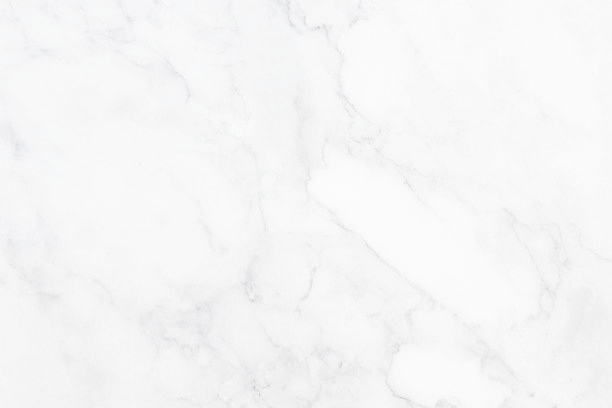
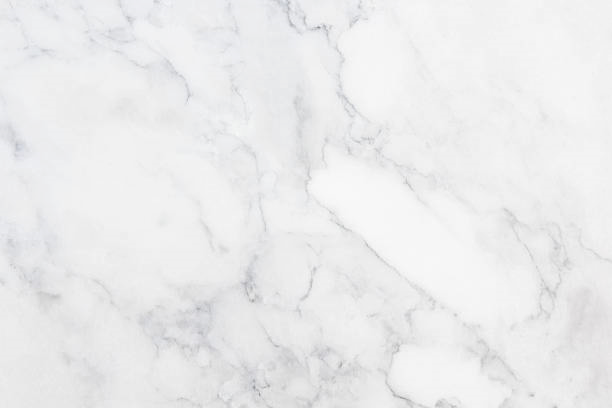
Updated stylings on page.

diff --git a/index.css b/index.css
@@ -7,7 +7,7 @@ body {
   line-height: 1.42857143;
   color: #333;
   background-color: #fff;
-  --marble-color: #fffcf0;
+  --marble-color: #525252;
 }
 
 p {
@@ -53,9 +53,9 @@ p {
 }
 
 #splash h2 {
-  padding-top: 10px;
-  padding-bottom: 30px;
   font-size: 30px;
+  color: white;
+  text-shadow: -1px -1px 0 var(--marble-color), 2px -1px 0 var(--marble-color), -1px 2px 0 var(--marble-color), 2px 2px 0 var(--marble-color);
 }
 
 #splash p {
